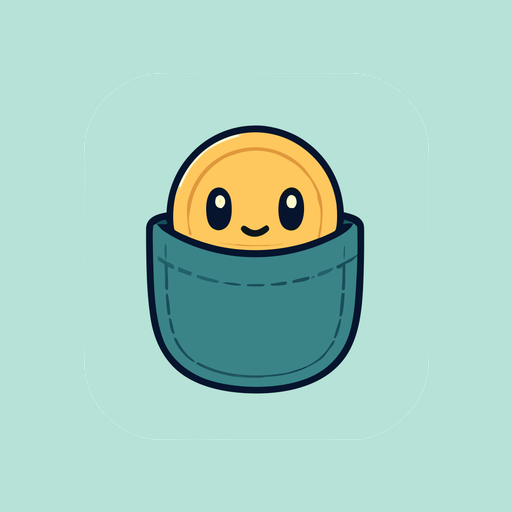
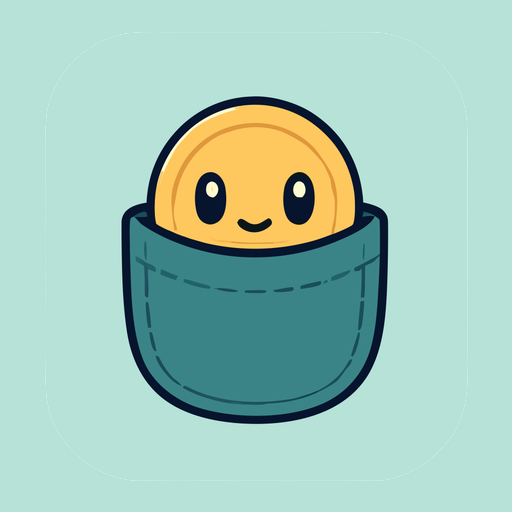
fix(web): agrandar el arte del ícono y hacer visible el botón de registrar
El ícono se veía chico con un anillo claro alrededor. No era Android
rellenando: el arte iba al 72% del lienzo, pero el dibujo ocupa menos de la
mitad de ese arte, así que terminaba en el 42% del ícono. Ahora va al 88% y el
dibujo llena el 52%.

88% es el máximo: la zona segura del recorte circular es el 80% central, y
verificado contra ese círculo, a 95% los costados del bolsillo ya lo tocan y a
100% lo cruzan.

El '+' del botón flotante era el carácter de texto en peso 300, tan fino que
casi desaparecía sobre el color. Ahora es un trazo dibujado de 2.8.

Changed region(s): [[0.2188, 0.1875, 0.7812, 0.8438]]

diff --git a/src/routes/+layout.svelte b/src/routes/+layout.svelte
@@ -37,7 +37,14 @@
           <span class="lb">{t.label}</span>
         </a>
       {/each}
-      <a href="/nuevo" class="fab" aria-label="Registrar movimiento">+</a>
+      <a href="/nuevo" class="fab" aria-label="Registrar movimiento">
+        <!-- Trazo dibujado, no el caracter '+': una tipografia en peso liviano
+             adelgaza el signo hasta volverlo casi invisible sobre el color. -->
+        <svg viewBox="0 0 24 24" width="30" height="30" aria-hidden="true" focusable="false">
+          <path d="M12 5.5v13M5.5 12h13" stroke="currentColor" stroke-width="2.8"
+                stroke-linecap="round" fill="none"/>
+        </svg>
+      </a>
     </nav>
   {/if}
 {/if}
@@ -70,12 +77,12 @@
   .fab {
     position: absolute;
     right: 1rem; bottom: calc(100% + .75rem);
-    width: 60px; height: 60px;
+    width: 62px; height: 62px;
     border-radius: 50%;
     background: var(--accent); color: var(--accent-fg);
-    font-size: 2rem; font-weight: 300; line-height: 1;
     display: grid; place-items: center;
-    box-shadow: 0 6px 20px rgb(0 0 0 / .28);
+    box-shadow: 0 6px 20px rgb(0 0 0 / .3);
     text-decoration: none;
   }
+  .fab:active { transform: scale(.94); }
 </style>
